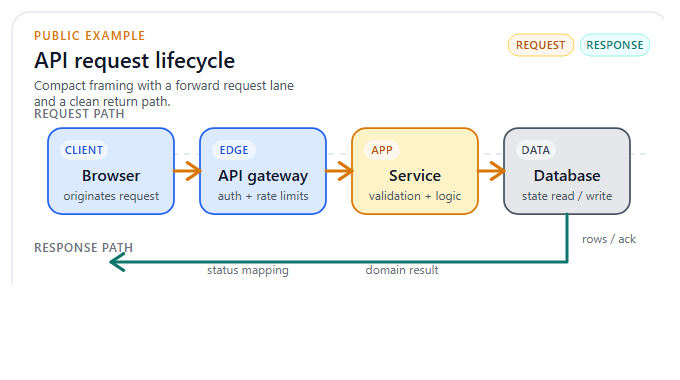
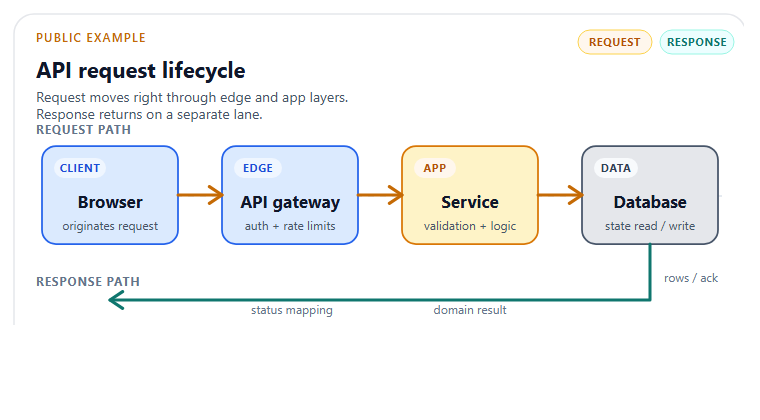
Refine published example rendering

Changed region(s): [[0.0309, 0.0579, 0.9574, 0.7526], [0.7412, 0.0579, 0.9574, 0.1737]]

diff --git a/codex-visuals/references/diagram-patterns.md b/codex-visuals/references/diagram-patterns.md
@@ -65,6 +65,7 @@ For a single subject with callouts:
 - Main geometry: left 55 percent
 - Callouts: right 45 percent
 - Title at top
+- Keep a dedicated header zone so decorative arrows never pass behind the title or subtitle
 - Summary note at bottom only if it adds value
 
 For process visuals:
@@ -80,6 +81,7 @@ For process visuals:
 - Wrap callout copy into short stacked lines when one sentence would run wider than the available column
 - Every leader line must terminate clearly
 - Every arrow should encode one meaning only
+- If the figure becomes crowded, remove decorative arrows before shrinking text
 
 ## Common Failure Modes
 

diff --git a/README.md b/README.md
@@ -99,7 +99,7 @@ Visualize load transfer in a house for a structural engineering explanation.
 
 Rendered sample:
 
-![House load transfer example](examples/house-load-transfer.svg)
+[![House load transfer example](examples/house-load-transfer.png)](examples/house-load-transfer.svg)
 
 Second sample:
 
@@ -109,7 +109,7 @@ Use $codex-visuals to draw a flowchart of an API request lifecycle from browser 
 
 Rendered sample:
 
-![API request lifecycle example](examples/api-request-lifecycle.svg)
+[![API request lifecycle example](examples/api-request-lifecycle.png)](examples/api-request-lifecycle.svg)
 
 Included artifacts:
 

diff --git a/codex-visuals/references/design-system.md b/codex-visuals/references/design-system.md
@@ -44,10 +44,12 @@ Avoid gradients, shadows, blur, glow, textures, and glassmorphism.
 ## Layout
 
 - Give the visual a 32px to 48px safe margin
+- Reserve a clear title band at the top; arrows, leaders, and geometry should not pass through title or subtitle copy
 - Keep the main subject on the left or center, callouts on one side
 - Leave enough whitespace between callouts to read each one independently
 - Avoid crossing arrows whenever possible
 - Prefer one clear reading direction
+- Scale for README width first, then add detail only if it still reads cleanly when reduced
 
 ## SVG Structure
 

diff --git a/codex-visuals/references/quality-checklist.md b/codex-visuals/references/quality-checklist.md
@@ -18,6 +18,7 @@ Run this checklist before sending a user-facing visual.
 - color count is limited
 - the main subject is obvious within one second
 - whitespace is sufficient
+- the title band is visually clear, with no arrows or geometry competing with the heading copy
 - arrows and leader lines do not create confusion
 
 ## Communication
